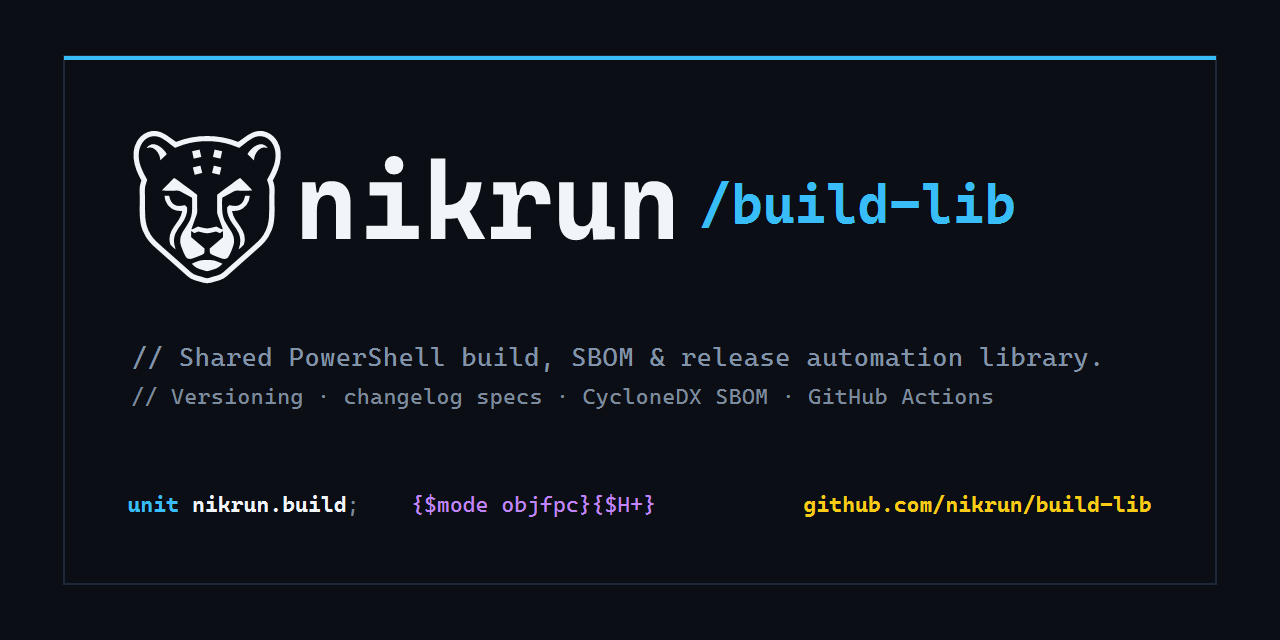
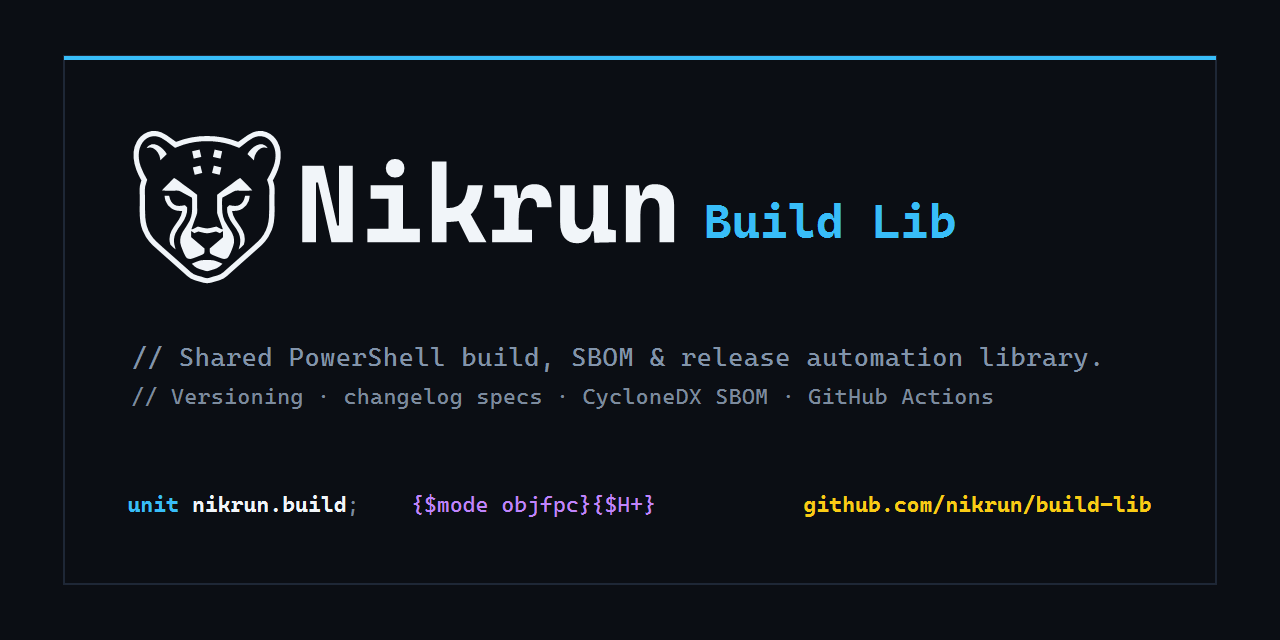
feat: capitalize Nikrun wordmark across lockups and social cards

Changed region(s): [[0.2188, 0.25, 0.8125, 0.4062], [0.3125, 0.25, 0.3438, 0.2812]]

diff --git a/README.md b/README.md
@@ -28,7 +28,7 @@ It is consumed as a Git submodule (`brand/`) across [`nikrun/cli`](https://githu
   - `nikrun-icon-light.svg` — Pure negative-space emblem (`#111111`) for light surfaces.
   - `nikrun-icon-dark-mono.svg` — Dark-surface emblem (`#0b0e14` interior with `#f1f5f9` contour & highlights).
   - `nikrun-favicon.svg` & `favicon.svg` — Tight-cropped small-viewport vector mark (`16×16`–`32×32`) and adaptive `prefers-color-scheme` browser favicon.
-  - `nikrun-lockup-light.svg` & `nikrun-lockup-dark-mono.svg` — Horizontal lockups with outlined `nikrun` wordmark (`Cascadia Code Bold`, OFL-1.1).
+  - `nikrun-lockup-light.svg` & `nikrun-lockup-dark-mono.svg` — Horizontal lockups with outlined **Nikrun** wordmark (`Cascadia Code Bold`, OFL-1.1).
   - `nikrun-icon-dark-color.svg` & `nikrun-lockup-dark-color.svg` — Optional accent-color variants.
 - **`ico/` — Application & Browser Icon:**
   - `nikrun.ico` — Multi-resolution icon (`16`, `24`, `32`, `48`, `256 px` 32-bit PNG frames) for Windows executables and browser favicons.
